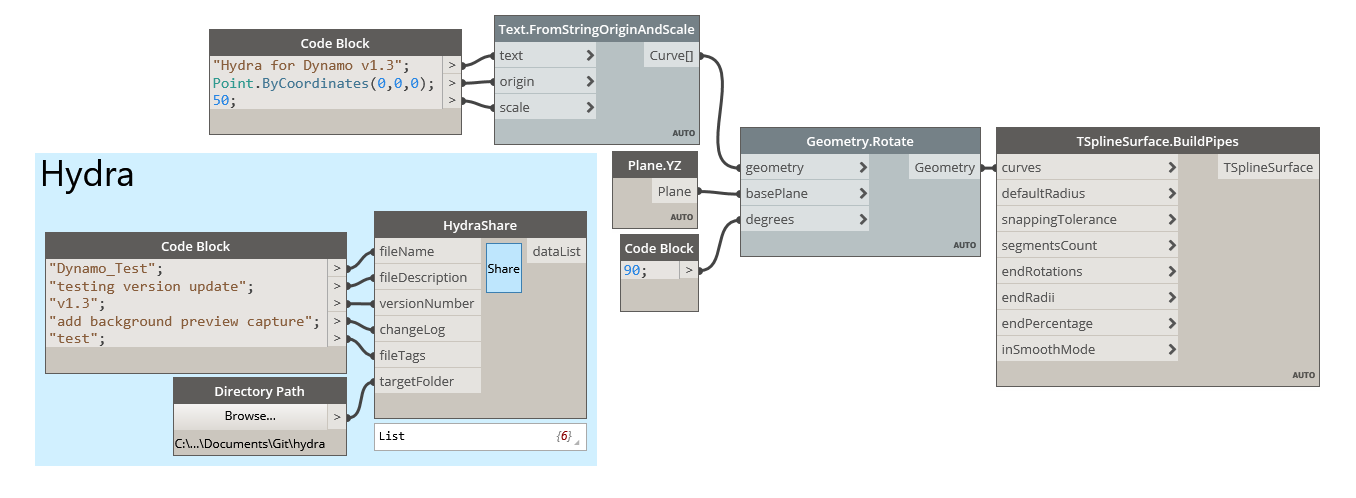
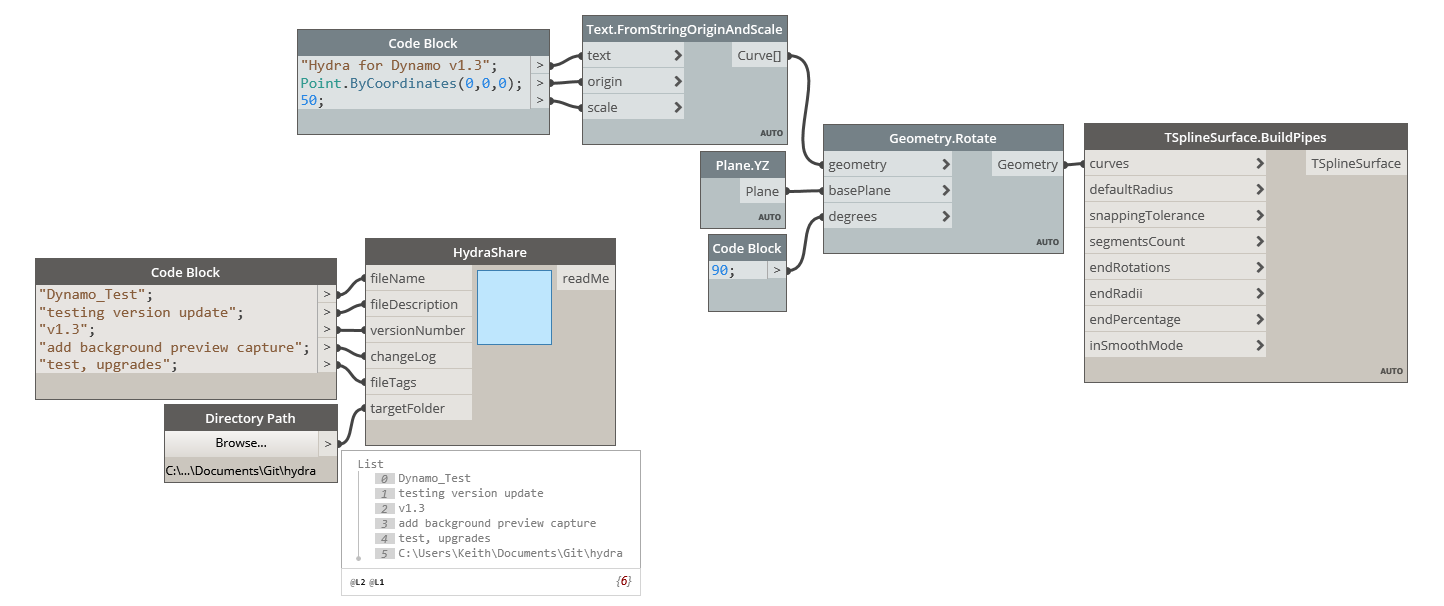
Testing Enhancements

diff --git a/Dynamo_Test/README.md b/Dynamo_Test/README.md
@@ -3,4 +3,4 @@ testing version update
 ### Version
 File Version: v1.3
 ### Tags
-test,Dynamo
+test,upgrades,Dynamo
